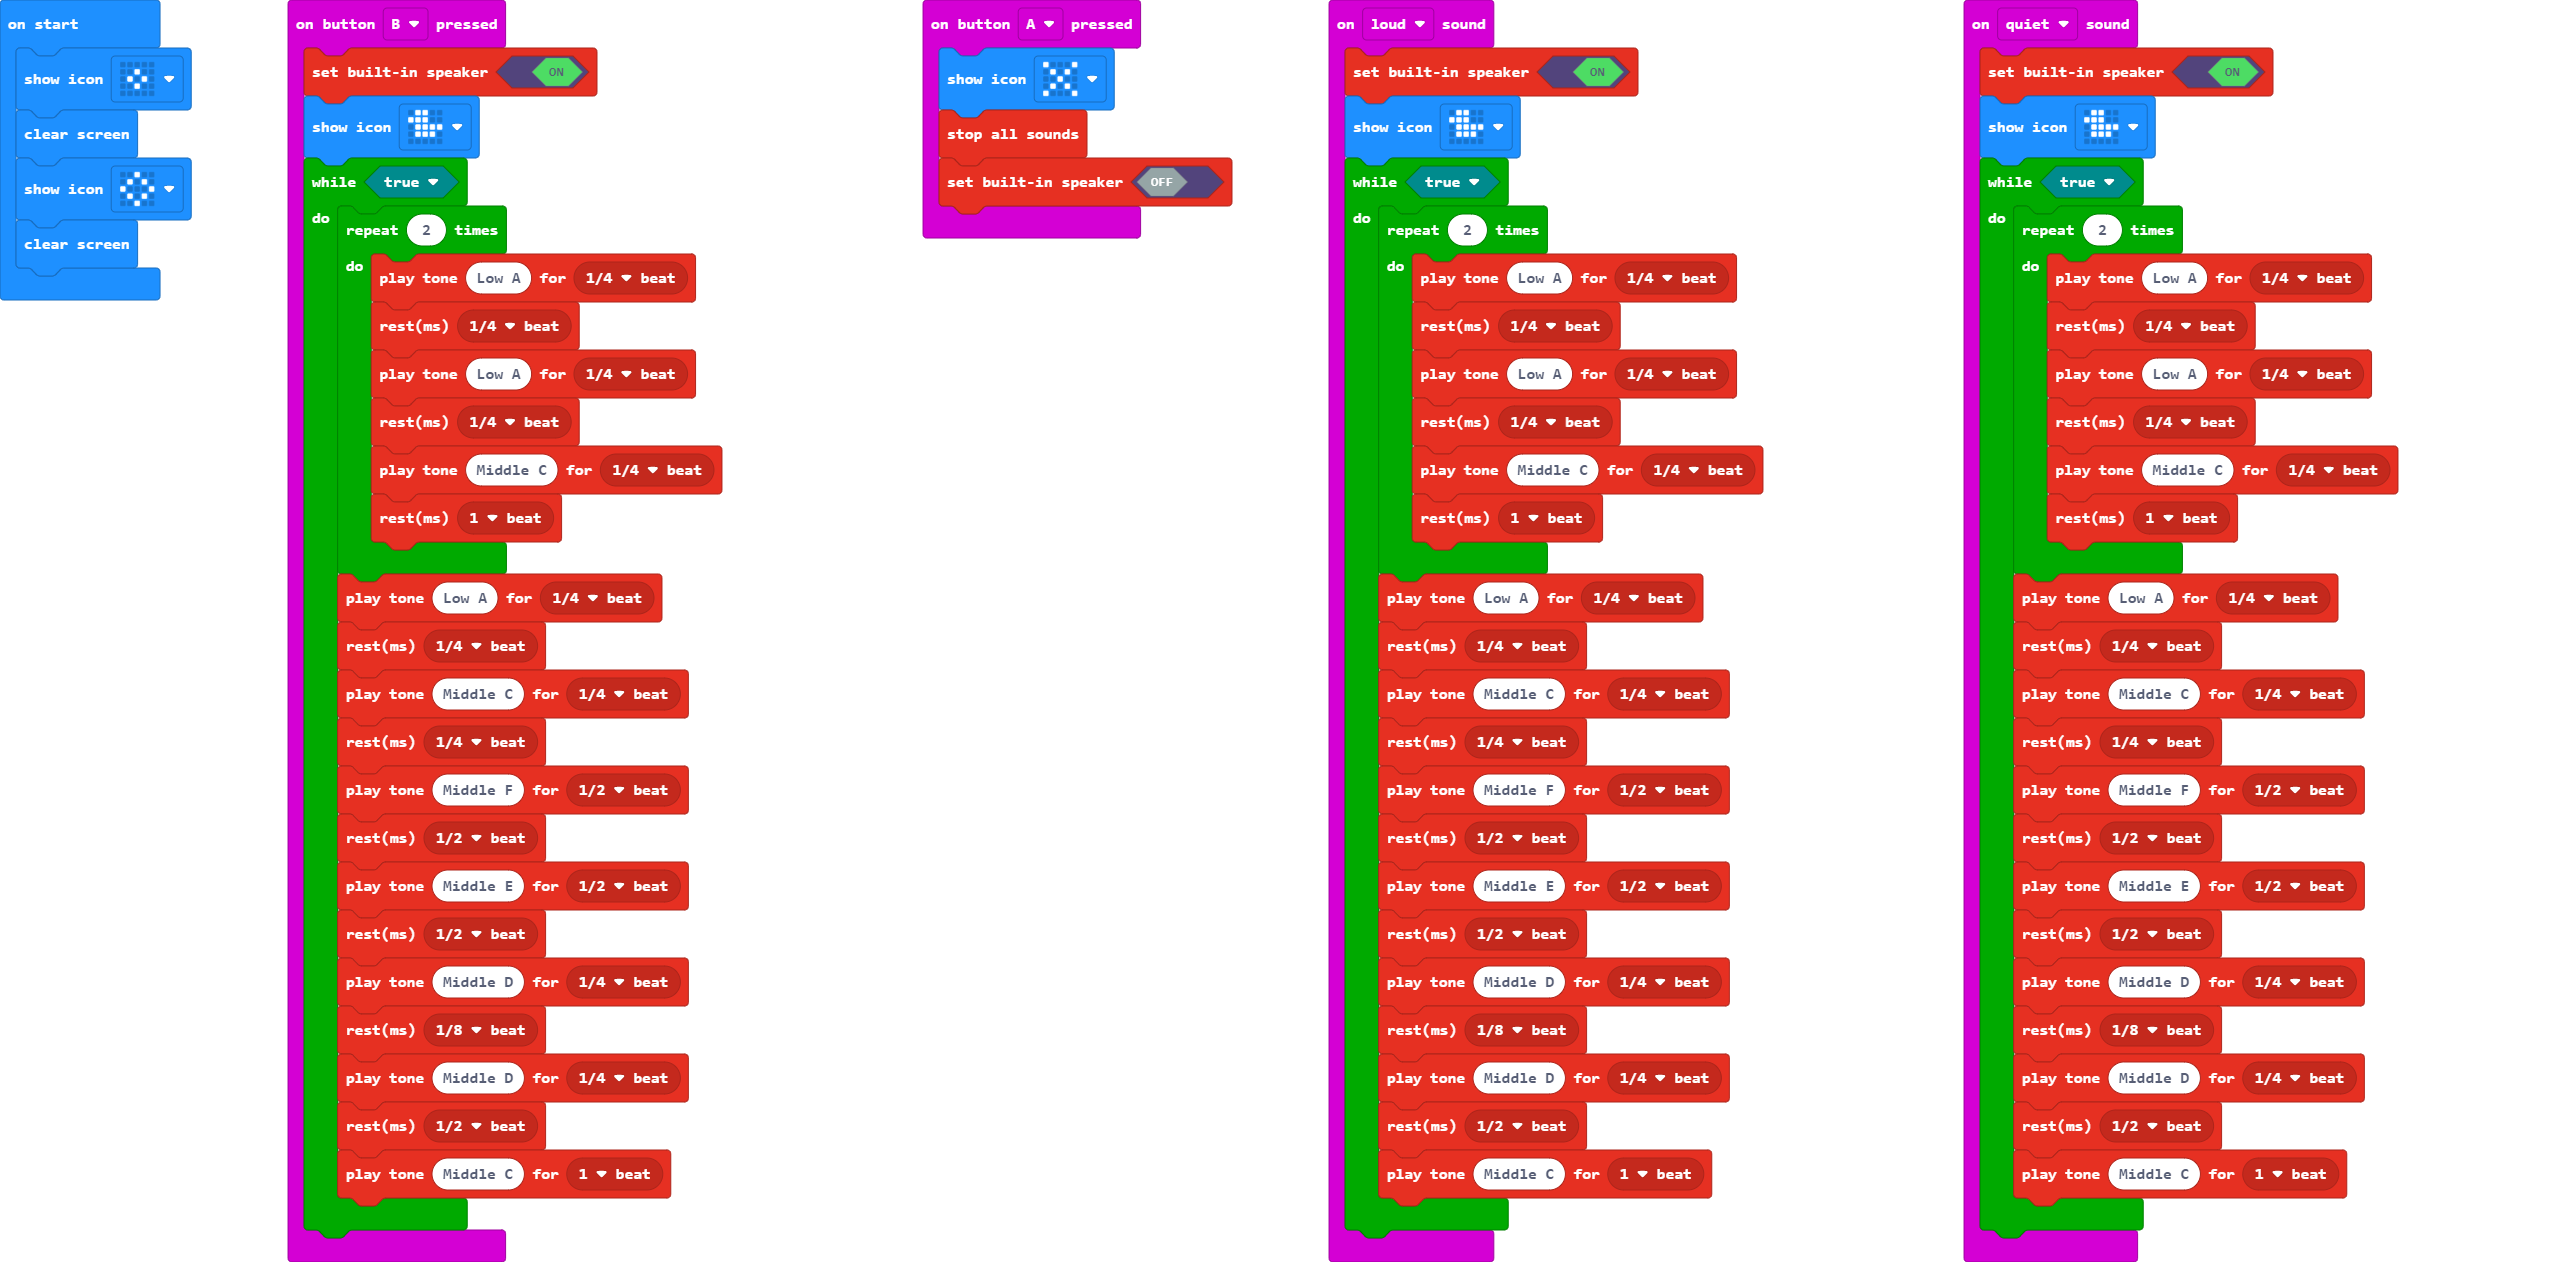
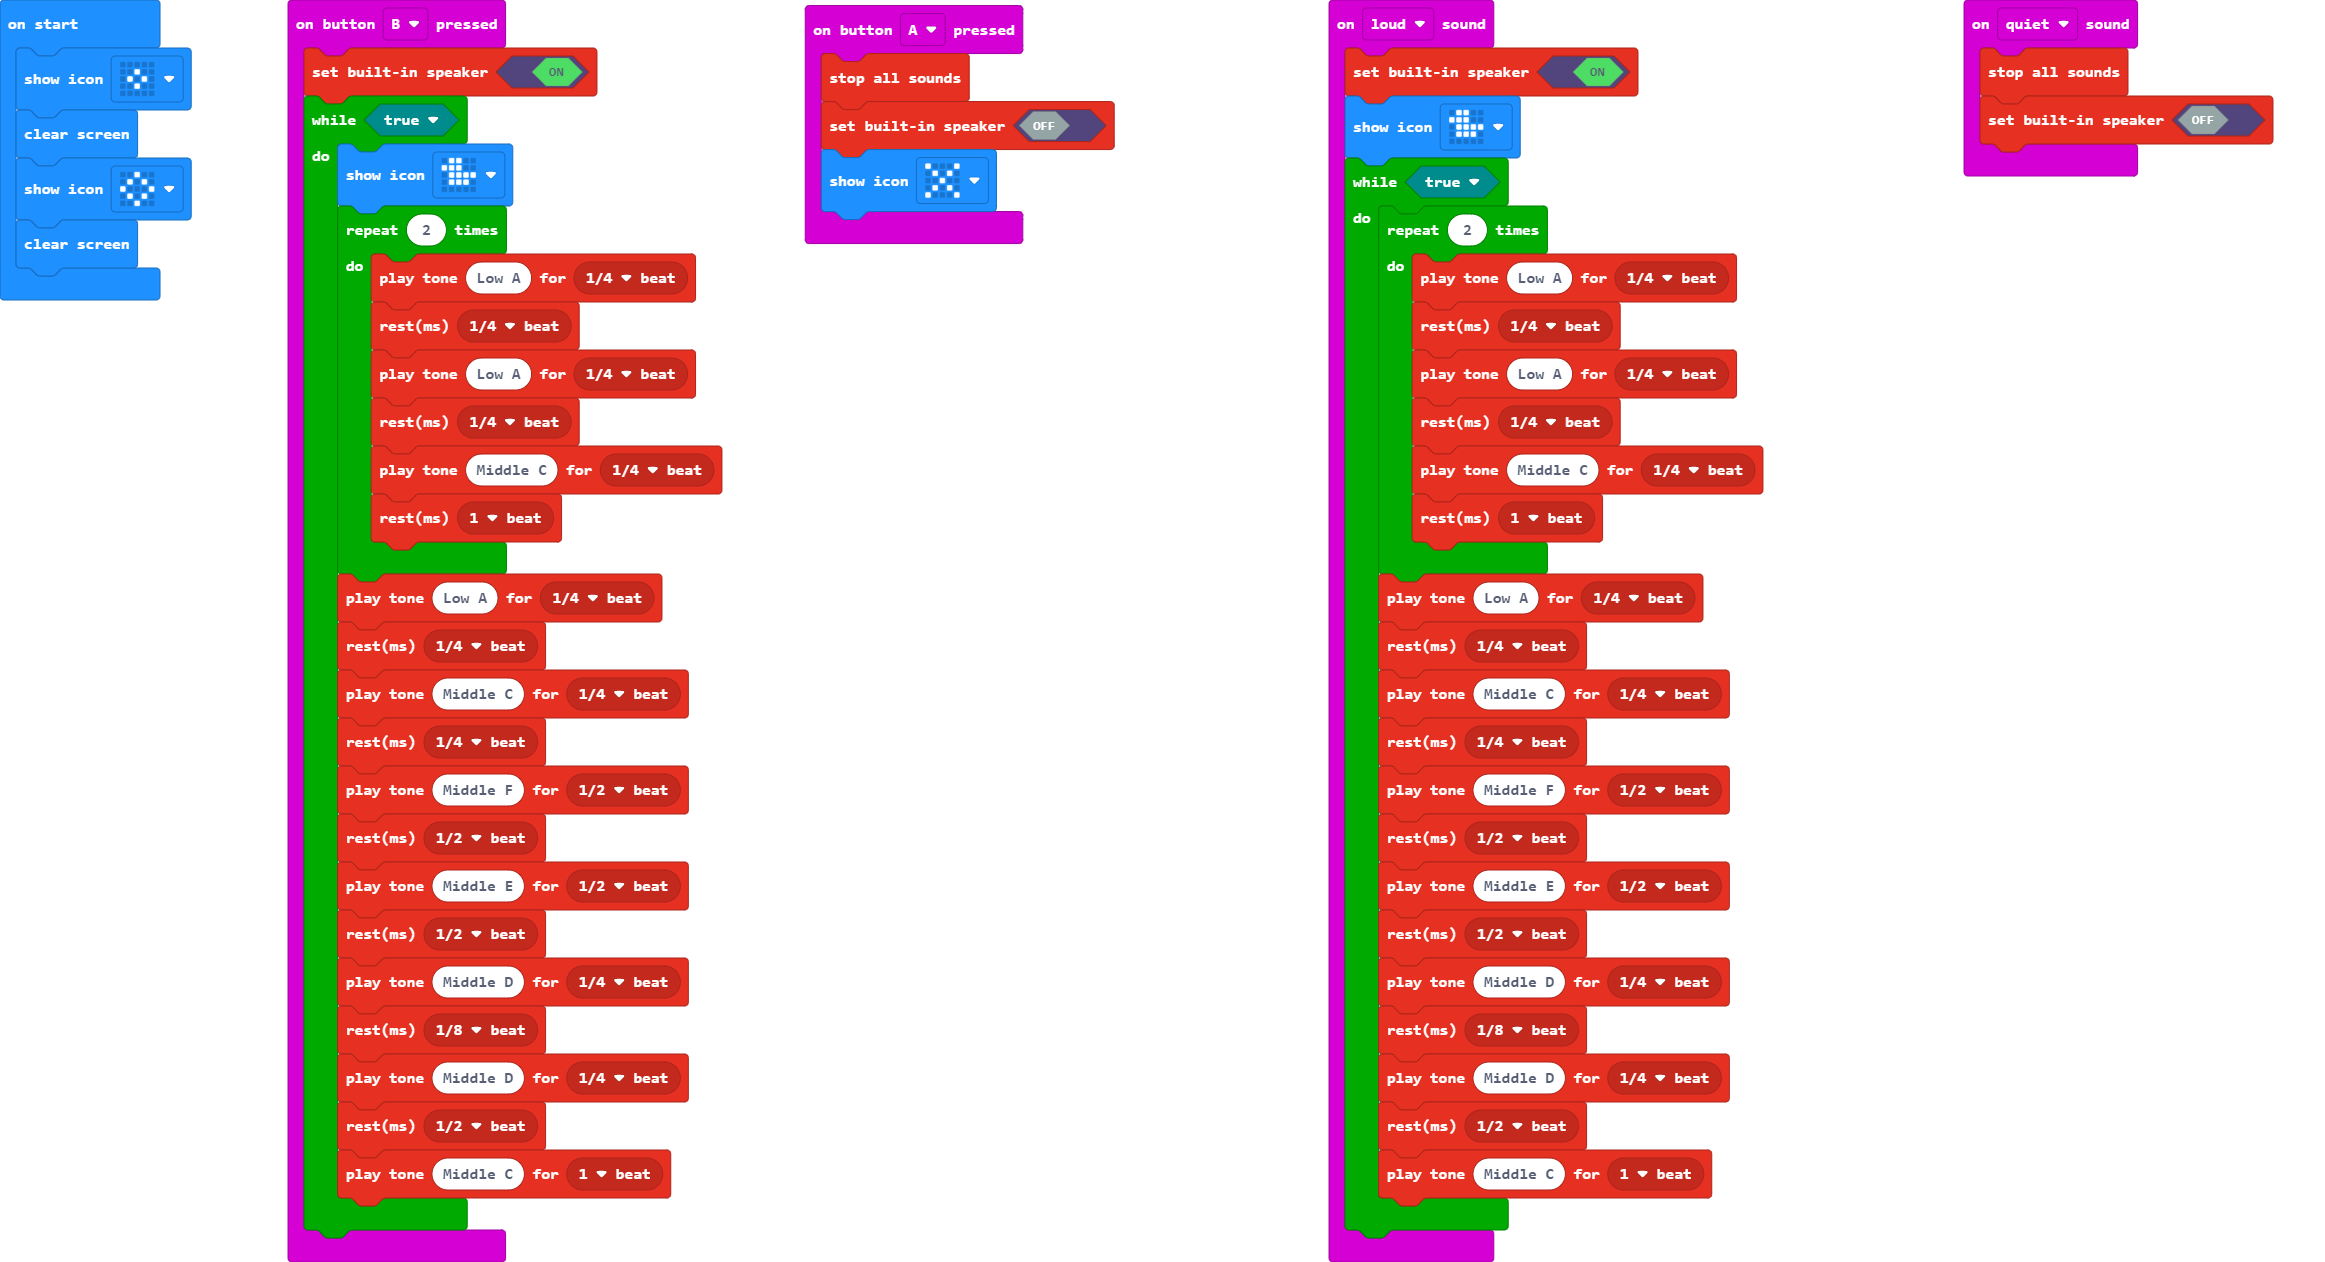
Update main.blocks, main.ts

diff --git a/main.ts b/main.ts
@@ -1,7 +1,7 @@
 input.onButtonPressed(Button.A, function () {
-    basic.showIcon(IconNames.No)
     music.stopAllSounds()
     music.setBuiltInSpeakerEnabled(false)
+    basic.showIcon(IconNames.No)
 })
 input.onSound(DetectedSound.Loud, function () {
     music.setBuiltInSpeakerEnabled(true)
@@ -32,8 +32,8 @@ input.onSound(DetectedSound.Loud, function () {
 })
 input.onButtonPressed(Button.B, function () {
     music.setBuiltInSpeakerEnabled(true)
-    basic.showIcon(IconNames.Duck)
     while (true) {
+        basic.showIcon(IconNames.Duck)
         for (let index = 0; index < 2; index++) {
             music.playTone(220, music.beat(BeatFraction.Quarter))
             music.rest(music.beat(BeatFraction.Quarter))
@@ -58,31 +58,8 @@ input.onButtonPressed(Button.B, function () {
     }
 })
 input.onSound(DetectedSound.Quiet, function () {
-    music.setBuiltInSpeakerEnabled(true)
-    basic.showIcon(IconNames.Duck)
-    while (true) {
-        for (let index = 0; index < 2; index++) {
-            music.playTone(220, music.beat(BeatFraction.Quarter))
-            music.rest(music.beat(BeatFraction.Quarter))
-            music.playTone(220, music.beat(BeatFraction.Quarter))
-            music.rest(music.beat(BeatFraction.Quarter))
-            music.playTone(262, music.beat(BeatFraction.Quarter))
-            music.rest(music.beat(BeatFraction.Whole))
-        }
-        music.playTone(220, music.beat(BeatFraction.Quarter))
-        music.rest(music.beat(BeatFraction.Quarter))
-        music.playTone(262, music.beat(BeatFraction.Quarter))
-        music.rest(music.beat(BeatFraction.Quarter))
-        music.playTone(349, music.beat(BeatFraction.Half))
-        music.rest(music.beat(BeatFraction.Half))
-        music.playTone(330, music.beat(BeatFraction.Half))
-        music.rest(music.beat(BeatFraction.Half))
-        music.playTone(294, music.beat(BeatFraction.Quarter))
-        music.rest(music.beat(BeatFraction.Eighth))
-        music.playTone(294, music.beat(BeatFraction.Quarter))
-        music.rest(music.beat(BeatFraction.Half))
-        music.playTone(262, music.beat(BeatFraction.Whole))
-    }
+    music.stopAllSounds()
+    music.setBuiltInSpeakerEnabled(false)
 })
 basic.showIcon(IconNames.SmallDiamond)
 basic.clearScreen()
